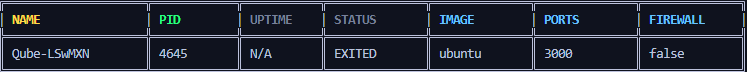
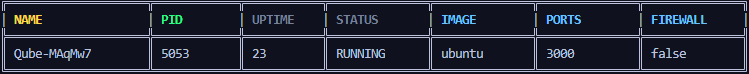
Update Kill cmd

diff --git a/tools/wasm-sample/index.js b/tools/wasm-sample/index.js
@@ -1,5 +1,6 @@
 const express = require('express');
 const os = require('os');
+const fs = require('fs');
 const app = express();
 
 app.use(express.json());
@@ -24,9 +25,51 @@ app.get('/info', (req, res) => {
     cpus: os.cpus(),
     loadAverage: os.loadavg(),
     networkInterfaces: os.networkInterfaces(),
+    osInfo: getOSInfo(),
+    cgroupInfo: getCgroupsInfo(),
+    namespacesInfo: getNamespacesInfo()
   };
   res.json(info);
 });
+
+function getOSInfo() {
+  const osReleasePaths = ['/etc/os-release', '/usr/lib/os-release'];
+  for (const path of osReleasePaths) {
+    if (fs.existsSync(path)) {
+      const data = fs.readFileSync(path, 'utf-8');
+      const prettyName = findParameter(data, 'PRETTY_NAME');
+      if (prettyName) {
+        return prettyName.trim().replace(/"/g, '');
+      }
+    }
+  }
+  return 'UNKNOWN';
+}
+
+function findParameter(content, paramName) {
+  const regex = new RegExp(`^${paramName}=(.*)$`, 'm');
+  const match = content.match(regex);
+  return match ? match[1] : null;
+}
+
+function getCgroupsInfo() {
+  try {
+    const cgroupSetup = fs.readFileSync('/proc/self/cgroup', 'utf-8');
+    return cgroupSetup;
+  } catch (err) {
+    return 'Cgroups info unavailable';
+  }
+}
+
+function getNamespacesInfo() {
+  try {
+    const namespacesConfig = fs.readFileSync('/proc/self/status', 'utf-8');
+    const namespaces = namespacesConfig.split('\n').filter(line => line.startsWith('NSp')).map(line => line.trim());
+    return namespaces;
+  } catch (err) {
+    return 'Namespaces info unavailable';
+  }
+}
 
 app.listen(3000, () => {
   console.log('Server is running on port 3000');

diff --git a/src/main.rs b/src/main.rs
@@ -27,7 +27,7 @@ fn main() {
     if args.len() < 2 {
         eprintln!(
             "{}",
-            "Usage: qube <daemon|run|list|stop|kill|eval|info|snapshot> [args...]".bright_red()
+            "Usage: qube <daemon|run|list|stop|start|delete|eval|info|snapshot> [args...]".bright_red()
         );
         exit(1);
     }
@@ -116,12 +116,9 @@ fn main() {
 
             eprintln!(
                 "{}",
-                format!(
-                    "\nContainer {} registered. It will be started by the daemon.",
-                    container_id
-                )
-                .green()
-                .bold()
+                format!("\nContainer {} registered. It will be started by the daemon.", container_id)
+                    .green()
+                    .bold()
             );
         }
         "list" => {
@@ -129,15 +126,59 @@ fn main() {
         }
         "stop" => {
             if args.len() < 3 {
-                eprintln!("{}", "Usage: qube stop <pid>".bright_red());
+                eprintln!("{}", "Usage: qube stop <pid|container_name>".bright_red());
                 exit(1);
             }
-            let pid: i32 = args[2].parse().expect("Invalid PID");
-            container::stop_container(pid);
+            let identifier = args[2].clone();
+            if let Ok(pid) = identifier.parse::<i32>() {
+                container::stop_container(pid);
+            } else {
+                let tracked = crate::tracking::get_all_tracked_entries();
+                if let Some(entry) = tracked.iter().find(|e| e.name == identifier) {
+                    container::stop_container(entry.pid);
+                } else {
+                    eprintln!("No container found with identifier {}", identifier);
+                    exit(1);
+                }
+            }
         }
-        "kill" => {
+        "start" => {
             if args.len() < 3 {
-                eprintln!("{}", "Usage: qube kill <pid>".bright_red());
+                eprintln!("{}", "Usage: qube start <container_name|pid>".bright_red());
+                exit(1);
+            }
+            let identifier = &args[2];
+            let tracked = crate::tracking::get_all_tracked_entries();
+            let entry_opt = tracked.iter().find(|e| {
+                e.name == *identifier || e.pid.to_string() == *identifier
+            });
+            if let Some(entry) = entry_opt {
+                // If the container is running, do nothing
+                if entry.pid > 0 && std::path::Path::new(&format!("/proc/{}", entry.pid)).exists() {
+                    println!("Container {} is already running (PID: {}).", entry.name, entry.pid);
+                } else if entry.pid == -1 {
+                    println!("Container {} is already scheduled to start.", entry.name);
+                } else {
+                    // Set pid to -1 to indicate that the daemon should (re)start it.
+                    crate::tracking::update_container_pid(
+                        &entry.name,
+                        -1,
+                        &entry.dir,
+                        &entry.command,
+                        &entry.image,
+                        &entry.ports,
+                        entry.firewall,
+                    );
+                    println!("Container {} marked to start. The daemon will start it shortly.", entry.name);
+                }
+            } else {
+                eprintln!("Container with identifier {} not found in tracking.", identifier);
+                exit(1);
+            }
+        }
+        "delete" => {
+            if args.len() < 3 {
+                eprintln!("{}", "Usage: qube delete <pid>".bright_red());
                 exit(1);
             }
             let pid: i32 = args[2].parse().expect("Invalid PID");
@@ -253,7 +294,7 @@ fn main() {
                 "{}",
                 format!("Unknown subcommand: {}", args[1]).bright_red()
             );
-            eprintln!("Available commands: daemon, run, list, stop, kill, eval, info, snapshot");
+            eprintln!("Available commands: daemon, run, list, stop, start, delete, eval, info, snapshot");
             exit(1);
         }
     }

diff --git a/src/container.rs b/src/container.rs
@@ -1,11 +1,12 @@
 use crate::cgroup;
 use crate::tracking;
+
 use colored::Colorize;
 use libc::{fork, c_int};
 use nix::mount::{mount, MsFlags};
 use nix::sched::{unshare, CloneFlags};
-use nix::sys::signal::{self, Signal};
-use nix::unistd::{self, chdir, chroot, close, read, sethostname, write};
+use nix::sys::signal::{self, Signal, kill};
+use nix::unistd::{self, chdir, chroot, close, read, sethostname, write, Pid};
 use rand::{distributions::Alphanumeric, Rng};
 use std::fs;
 use std::os::fd::RawFd;
@@ -70,7 +71,7 @@ pub fn run_container(
             }
             let cpid = i32::from_le_bytes(buf);
             println!("\nContainer launched with ID: {} (PID: {})", container_id, cpid);
-            println!("Use 'qube stop {}' or 'qube kill {}' to stop/kill it.\n", cpid, cpid);
+            println!("Use 'qube stop {}' or 'qube delete {}' to stop/delete it.\n", cpid, cpid);
             tracking::update_container_pid(&container_id, cpid, work_dir, user_cmd, image, ports, firewall);
         }
     }
@@ -242,7 +243,9 @@ pub fn list_containers() {
             Ok(u) => u.to_string(),
             Err(_) => "N/A".to_string(),
         };
-        let status = if Path::new(&path).exists() { "RUNNING" } else { "EXITED" };
+        let status = if x.pid > 0 && Path::new(&path).exists() { "RUNNING" }
+                     else if x.pid == -2 { "STOPPED" }
+                     else { "EXITED" };
         println!("║ {:<18} ║ {:<10} ║ {:<9} ║ {:<12} ║ {:<12} ║ {:<12} ║ {:<12} ║",
                  x.name, x.pid, uptime_str, status, x.image, x.ports, if x.firewall { "true" } else { "false" });
     }
@@ -250,24 +253,27 @@ pub fn list_containers() {
 }
 
 pub fn stop_container(pid: i32) {
-    use nix::sys::signal::{kill, Signal};
-    use nix::unistd::Pid;
-    let p = format!("/proc/{}", pid);
-    if !Path::new(&p).exists() {
-        println!("Container {} is not running.", pid);
-        return;
-    }
-    if kill(Pid::from_raw(pid), Signal::SIGTERM).is_ok() {
-        println!("Stopped container with PID: {}", pid);
-        tracking::remove_container_from_tracking(pid);
+    if let Some(entry) = crate::tracking::get_all_tracked_entries().iter().find(|e| e.pid == pid) {
+        kill_container(pid);
+
+        crate::tracking::update_container_pid(
+            &entry.name,
+            -2,
+            &entry.dir,
+            &entry.command,
+            &entry.image,
+            &entry.ports,
+            entry.firewall
+        );
+
+        crate::tracking::remove_container_from_tracking(pid);
+        println!("Container {} has been fully removed and marked as stopped.", pid);
     } else {
-        println!("Failed to stop container with PID: {}", pid);
+        eprintln!("No container found with PID: {}", pid);
     }
 }
 
 pub fn kill_container(pid: i32) {
-    use nix::sys::signal::{kill, Signal};
-    use nix::unistd::Pid;
     let p = format!("/proc/{}", pid);
     if !Path::new(&p).exists() {
         println!("Container {} is not running.", pid);

diff --git a/src/daemon.rs b/src/daemon.rs
@@ -32,10 +32,14 @@ pub fn start_daemon(debug: bool) -> ! {
         let all_tracked = tracking::get_all_tracked_entries();
 
         for entry in &all_tracked {
+            if entry.pid == -2 {
+                continue;
+            }
             if entry.pid == -1 && current_timestamp().saturating_sub(entry.timestamp) < 5 {
                 continue;
             }
-            if !is_process_alive(entry.pid) {
+ 
+            if entry.pid >= -1 && !is_process_alive(entry.pid) {
                 eprintln!(
                     "{}",
                     format!("Container with PID {} seems to have exited. (ID={})", entry.pid, entry.name)
@@ -81,7 +85,7 @@ pub fn start_daemon(debug: bool) -> ! {
     std::process::exit(0);
 }
 
-fn is_process_alive(pid: i32) -> bool {
+pub fn is_process_alive(pid: i32) -> bool {
     let proc_path = format!("/proc/{}/status", pid);
     
     if !std::path::Path::new(&proc_path).exists() {

diff --git a/README.md b/README.md
@@ -47,19 +47,21 @@ Qube aims to provide a lightweight, secure, and efficient container runtime. Rus
   ```bash
   sudo Qube list
   ```
+  
 - Stop a container
-  Gracefully stops a container by sending it a SIGTERM.
+  Immediately Stops a container by sending it a SIGKILL.
 
   ```bash
-  sudo Qube stop <pid>
+  sudo Qube stop <pid|container_name>
   ```
 
-- Kill a container
-  Immediately kills a container by sending it a SIGKILL.
+- Start a container
+  Starts a stopped container.
 
   ```bash
-  sudo Qube kill <pid>
+  sudo Qube start <pid|container_name>
   ```
+
 - Eval a container
   
   Allows you to attach to a container (by name or PID) and run commands as root inside it.
